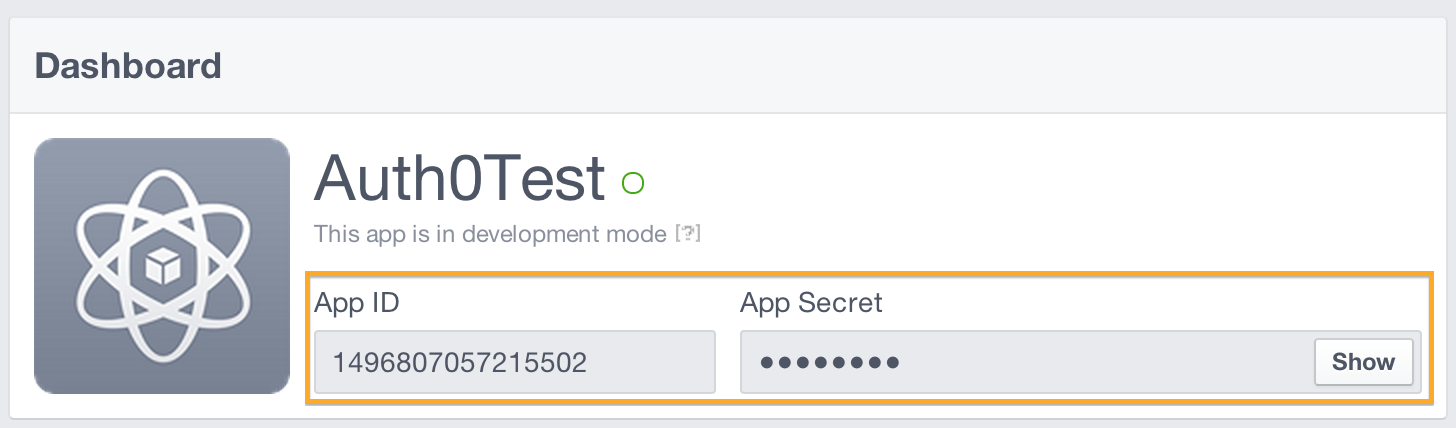
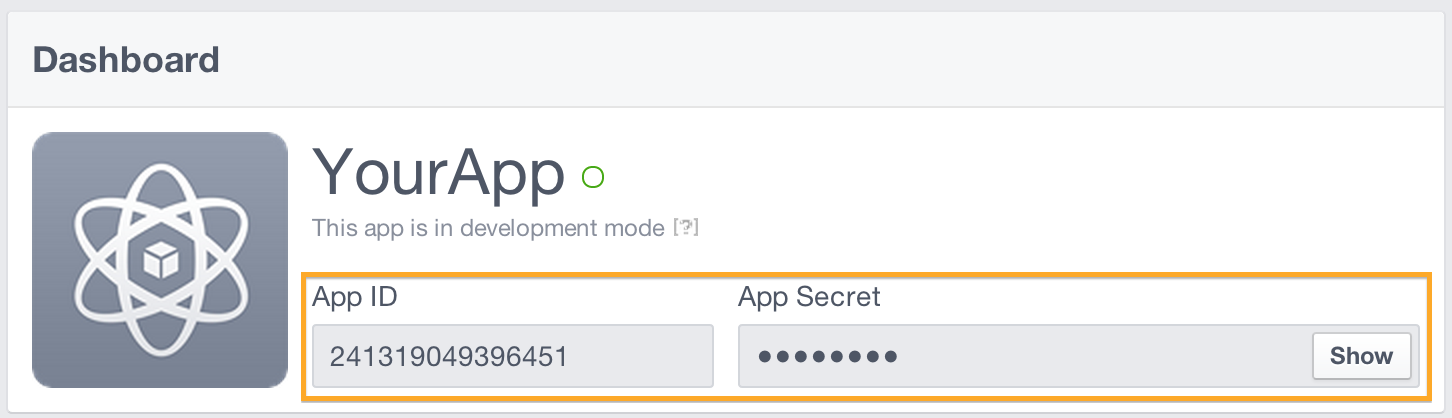
Edited FB clientid instructions

diff --git a/docs/facebook-clientid.md b/docs/facebook-clientid.md
@@ -15,15 +15,17 @@ Go to the [Facebook Developers Apps](https://developers.facebook.com/apps), logi
 
 ---
 
-##3. Setup the callback URL:
+##3. Complete setup
+
+Copy the App ID and App Secret to the clipboard:
+
+![](img/facebook-3.png)
 
 On app **Settings > Advanced**, enter the following URL on the "Valid OAuth redirect URIs":
 
     https://@@account.namespace@@/login/callback
 
-![](img/facebook-3.png)
-
-And copy the App ID and App Secret to the clipboard.
+![](img/facebook-3b.png)
 
 ---
 
